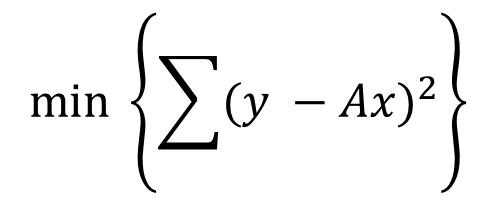
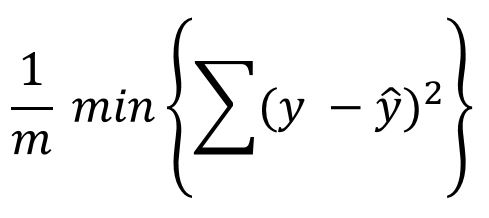
quick commit

Changed region(s): [[0.0, 0.058, 0.9816, 0.9275], [0.0307, 0.2319, 0.092, 0.4058], [0.3681, 0.087, 0.3988, 0.1449]]

diff --git a/README.md b/README.md
@@ -160,15 +160,25 @@ is equal to
 
 is equal to
 
-> <p><i>minimizing the average squared <img src="/imgs/residual.JPG", width="80"></i></p>
+> <p><i>minimizing the average squared <img src="/imgs/residual3.JPG", width="80"></i></p>
 
 is equal to
 
-> <p><i>minimizing the average <img src="/imgs/residual.JPG", width="80"></i></p>
+> <p><i>minimizing the average <img src="/imgs/residual-squared.JPG", width="80"></i></p>
 
 is equal to
 
-> <p><i>the average <img src="/imgs/cost-function.JPG", width="80"></i></p>
+> <p><i>minimizing <img src="/imgs/sum-residual-squared.JPG", width="80"> divided by the total number of images</i></p>
+
+is equal to
+
+> <p><i>minimizing <img src="/imgs/averaged-squared-error.JPG", width="80"></i></p>
+
+is equal to
+
+> <p><i><img src="/imgs/cost-function.JPG", width="80"></i></p>
+
+
 
 
 
